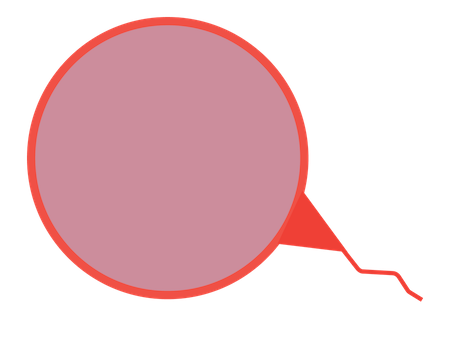
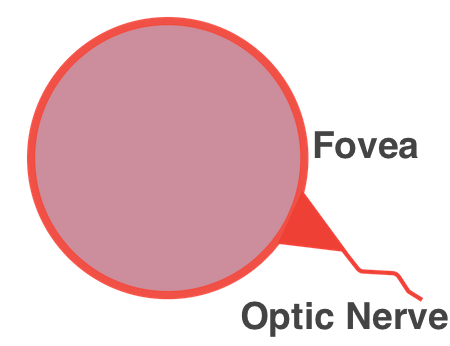
added eye text and labels

Changed region(s): [[0.5289, 0.8671, 0.9956, 0.9827], [0.6844, 0.3757, 0.9333, 0.4624]]

diff --git a/eye/scripts/oakley.js b/eye/scripts/oakley.js
@@ -7,15 +7,15 @@ jQuery(document).ready(function($){
 	$(window).scroll(function(){
 		currentoffset = $(this).scrollTop();
 		if (currentoffset<601) {
-		
+
 			thisoffset = currentoffset - 50*(currentoffset/600);
 			scaleclouds = (currentoffset/700)+1;
 			$("#cillary_muscle").css({top:thisoffset,transform:"scale("+scaleclouds+")"});
-			
+
 			/* BOOM TEXT */
 // rotate lens other direction to fovea
 
-		
+
 
 			thisoffset = currentoffset - 100*(currentoffset/300);
 			thisrotation = -200*((currentoffset/1000));
@@ -26,7 +26,7 @@ jQuery(document).ready(function($){
 			thisoffset = currentoffset - 1000*(currentoffset/500);
 			$("#cornea").css({top:thisoffset});
 
-			
+
 			/* BITS 1 */
 			thisoffset = currentoffset - 100*(currentoffset/300);
 			thisrotation = 250*((currentoffset/1000));
@@ -39,7 +39,7 @@ jQuery(document).ready(function($){
 			/* BITS 3 */
 			thisoffset = currentoffset - 100*(currentoffset/700);
 			scalebit3 = (currentoffset/300)+1;
-	
+
 			$("#conjunctiva").css({top:thisoffset,transform:"scale("+scalebit3+")"});
 
 		}
@@ -58,5 +58,3 @@ jQuery(document).ready(function($){
     });
 
 });
-
-

diff --git a/eye/index.html b/eye/index.html
@@ -70,7 +70,17 @@
 
 <h2 style="color:#00ffb5;"> Lens</h2>
 <p> Focuses light onto the retina </p>
+
+<!-- <h2 style="color:#ff4e40;"> Retina</h2>
+<p>The lining of the back of eye containing two types of photoreceptor cells - rods - sensitive to dim light and black and white - and cones - sensitive to colour. A small area called the fovea in the middle of the retina has many more cones than rods.</p> -->
+
+<h2 style="color:#149dcc;"> Optic nerve</h2>
+<p>A bundle of sensory neurones at back of eye. It carries impulses from the eye to the brain. </p>
+
+
 </div>
+
+
 
 		</section>
 		<!-- End Site Content -->

diff --git a/eye/styles/screen.css b/eye/styles/screen.css
@@ -95,7 +95,7 @@ section#top #pupil2 {
 section#top #cornea {
 	position:			absolute;
 	top:				0;
-	left:				0;
+	left:				-75px;
 	width:				100%;
 	background:			transparent url(eye/cornea.png) no-repeat center center;
 	height:				100%;

diff --git a/sound_waves/index.html b/sound_waves/index.html
@@ -75,14 +75,6 @@
 </div>
 
 		</section>
-		<section id="about">
-<div><h1>More info</h1>
-
-
-				</div>
-
-
-		</section>
 		<!-- End Site Content -->
     <script>$("#nav-one a")
   .each(function(i) {
